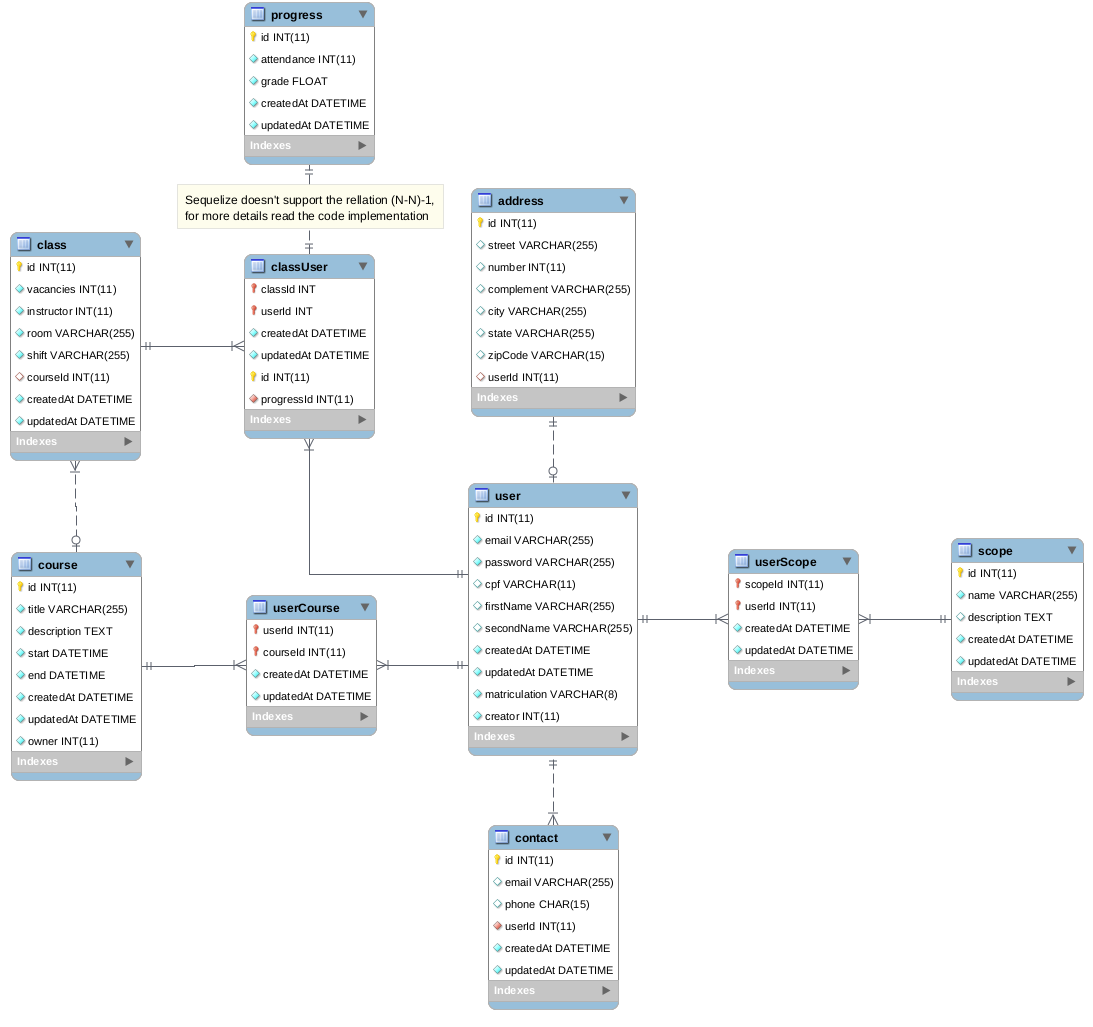
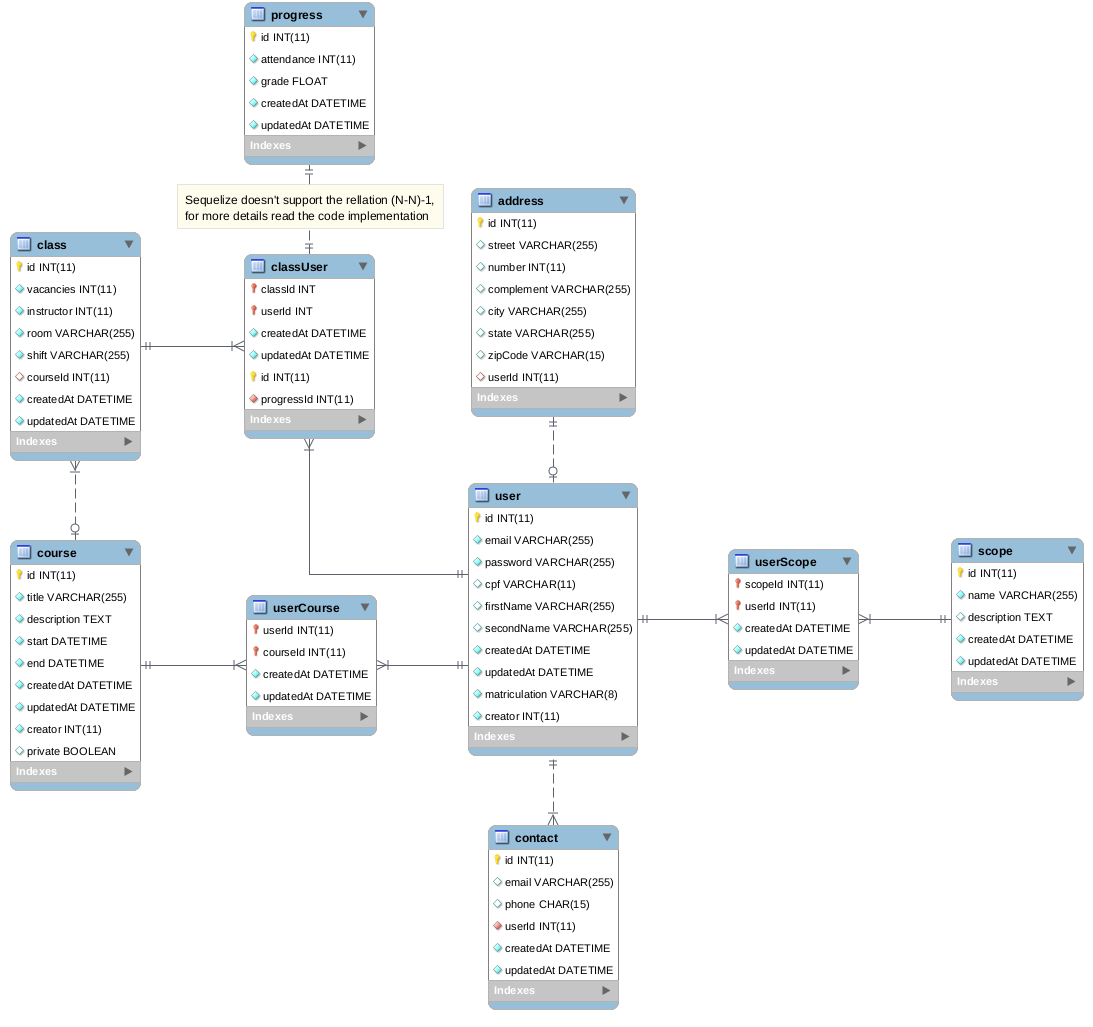
Sign token to user

Changed region(s): [[0.0, 0.4985, 0.1555, 0.779], [0.1244, 0.6232, 0.1555, 0.6543]]

diff --git a/graphql/index.js b/graphql/index.js
@@ -9,6 +9,8 @@ const contactSchema = require("./contact/schema");
 
 const addressSchema = require("./address/schema");
 
+const courseSchema = require("./course/schema");
+
 module.exports.schema = buildSchema(`
     ${userSchema}
 
@@ -17,6 +19,8 @@ module.exports.schema = buildSchema(`
     ${contactSchema}
 
     ${addressSchema}
+
+    ${courseSchema}
 
     type RootQuery {
         searchUser(id: Int!): User!
@@ -29,6 +33,9 @@ module.exports.schema = buildSchema(`
         listContacts(userId: Int!): [Contact!]
 
         listAddresses(userId: Int!): [Address!]
+
+        searchCourse(params: CourseSearch!): [Course!]
+        listCourses(private: Boolean!): [Course!]
     }   
 
     type RootMutation {
@@ -39,6 +46,7 @@ module.exports.schema = buildSchema(`
         createScope(params: ScopeInput!): Scope!
         removeScope(name: String!): String!
         updateScope(params: ScopeUpdate!): Scope!
+        signScope(scopeId: Int!, userId: Int!): String!
 
         createContact(params: ContactInput!): Contact!
         removeContact(id: Int!): String!
@@ -47,6 +55,11 @@ module.exports.schema = buildSchema(`
         createAddress(params: AddressInput!): Address!
         removeAddress(id: Int!): String!
         updateAddress(params: AddressUpdate!): Address!
+
+        createCourse(params: CourseInput!): Course!
+        removeCourse(id: Int!): String!
+        updateCourse(params: CourseUpdate!): Course!
+        signCourse(courseId: Int!, userId: Int!): String!
     }
 
     schema {
@@ -66,9 +79,12 @@ const contactResolvers = require("./contact/resolvers");
 
 const addressResolvers = require("./address/resolvers");
 
+const courseResolvers = require("./course/resolvers");
+
 module.exports.resolvers = {
   ...userResolvers,
   ...scopeResolvers,
   ...contactResolvers,
-  ...addressResolvers
+  ...addressResolvers,
+  ...courseResolvers
 };

diff --git a/graphql/scope/scopes.js b/graphql/scope/scopes.js
@@ -1,23 +1,26 @@
 module.exports = {
-    searchScope: {
-      name: "searchScope",
-      description: "Search scope by name"
-    },
-    createScope: {
-      name: "createScope",
-      description: "Create scope"
-    },
-    removeScope: {
-      name: "removeScope",
-      description: "Remove scope"
-    },
-    updateScope: {
-      name: "updateScope",
-      description: "Update scope attributes values"
-    },
-    listScopes: {
-      name: "listScopes",
-      description: "List all scopes"
-    }
-  };
-  
+  searchScope: {
+    name: "searchScope",
+    description: "Search scope by name"
+  },
+  createScope: {
+    name: "createScope",
+    description: "Create scope"
+  },
+  removeScope: {
+    name: "removeScope",
+    description: "Remove scope"
+  },
+  updateScope: {
+    name: "updateScope",
+    description: "Update scope attributes values"
+  },
+  listScopes: {
+    name: "listScopes",
+    description: "List all scopes"
+  },
+  signScope: {
+    name: "signScope",
+    description: "Associate a token to an user"
+  }
+};

diff --git a/graphql/scope/resolvers.js b/graphql/scope/resolvers.js
@@ -128,10 +128,39 @@ const listScopes = async (args, req) => {
   }
 };
 
+const signScope = async (args, req) => {
+  try {
+    checkAuthentication(req, scopeScopes.signScope.name);
+  } catch (error) {
+    checkError(error);
+  }
+
+  try {
+    const scope = await queryHelper("scope", { where: { id: args.scopeId } });
+
+    if (!scope) throw "not found";
+
+    const user = await queryHelper("user", { where: { id: args.userId } });
+
+    if (!user) throw "not found";
+
+    try {
+      const userScope = await db.userScope.create({ ...args });
+    } catch (error) {
+      throw "unique violation";
+    }
+
+    return "user and scope associated";
+  } catch (error) {
+    checkError(error);
+  }
+};
+
 module.exports = {
   searchScope,
   createScope,
   removeScope,
   updateScope,
-  listScopes
+  listScopes,
+  signScope
 };

diff --git a/graphql/course/schema.js b/graphql/course/schema.js
@@ -1,0 +1,36 @@
+module.exports = `
+    type Course {
+        id: Int
+        title: String
+        description: String
+        start: String
+        end: String
+        creator: Int
+        private: Boolean
+    }
+
+    input CourseSearch {
+        id: Int
+        title: String
+        start: String
+        end: String
+        creator: Int
+    }
+
+    input CourseInput {
+        title: String
+        description: String
+        start: String
+        end: String
+        creator: Int
+        private: Boolean
+    }
+
+    input CourseUpdate {
+        title: String
+        description: String
+        start: String
+        end: String
+        private: Boolean
+    }
+`;

diff --git a/graphql/course/scopes.js b/graphql/course/scopes.js
@@ -1,0 +1,26 @@
+module.exports = {
+  searchCourse: {
+    name: "searchCourse",
+    description: "Search course by id, title, start, end or creator"
+  },
+  listCourses: {
+    name: "listCourses",
+    description: "List not private courses and private courses"
+  },
+  createCourse: {
+    name: "createCourse",
+    description: "Create course"
+  },
+  removeCourse: {
+    name: "removeCourse",
+    description: "Remove course"
+  },
+  updateCourse: {
+    name: "updateCourse",
+    description: "Update course attributes values"
+  },
+  signCourse: {
+    name: "signCourse",
+    description: "Associate a course to an user"
+  }
+};

diff --git a/models/course.js b/models/course.js
@@ -24,9 +24,13 @@ module.exports = (sequelize, DataTypes) => {
         type: DataTypes.DATE,
         allowNull: false
       },
-      owner: {
+      creator: {
         type: DataTypes.INTEGER,
         allowNull: false
+      },
+      private: {
+        type: DataTypes.BOOLEAN,
+        defaultValue: false
       }
     },
     {

diff --git a/graphql/scopes.js b/graphql/scopes.js
@@ -6,9 +6,12 @@ const contactScopes = require("./contact/scopes");
 
 const addressScopes = require("./address/scopes");
 
+const courseScopes = require("./course/scopes");
+
 module.exports = {
   ...userScopes,
   ...scopeScopes,
   ...contactScopes,
-  ...addressScopes
+  ...addressScopes,
+  ...courseScopes
 };

diff --git a/graphql/course/utils.js b/graphql/course/utils.js
@@ -1,0 +1,12 @@
+const { createdAtUpdatedAt } = require("../utils");
+
+const transformCourse = course => {
+  return {
+    id: null,
+    ...createdAtUpdatedAt(course)
+  };
+};
+
+module.exports = {
+  transformCourse
+};

diff --git a/graphql/contact/schema.js b/graphql/contact/schema.js
@@ -9,6 +9,7 @@ module.exports = `
     }
 
     input ContactInput {
+        userId: Int
         email: String
         phone: String
     }

diff --git a/graphql/course/resolvers.js b/graphql/course/resolvers.js
@@ -1,0 +1,1 @@
+module.exports = {};
